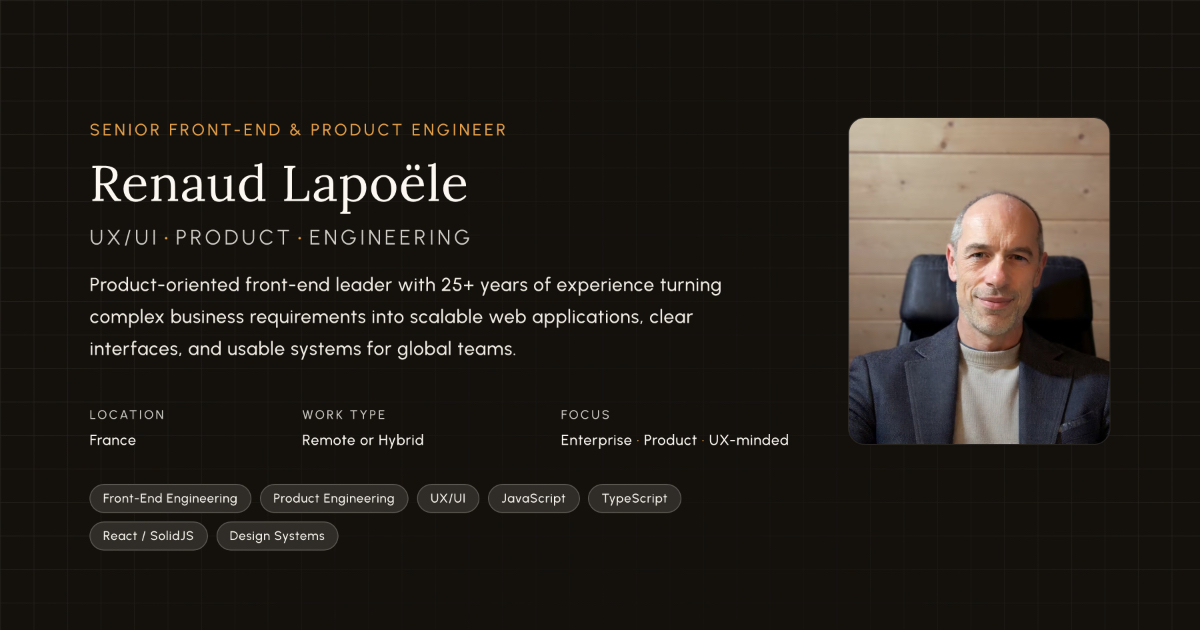
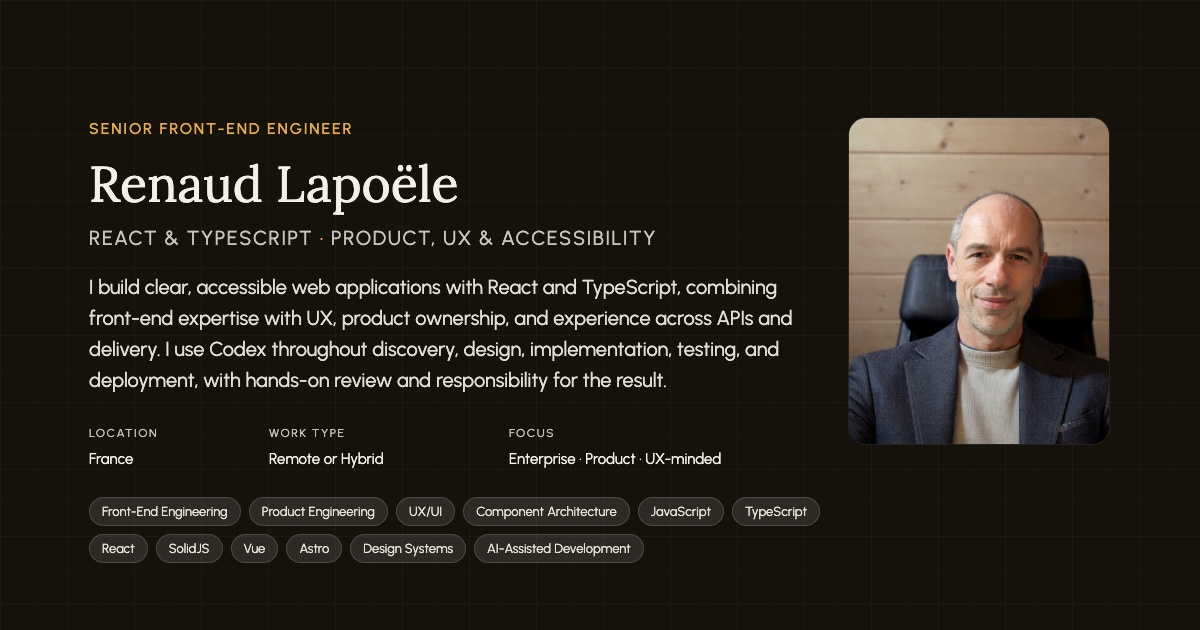
content: udpated og images

diff --git a/agent-logs/changelog.md b/agent-logs/changelog.md
@@ -207,3 +207,9 @@ Concise history of meaningful agent-made changes.
 - Preserved CSS, dates, role count, print-break rules, education, certification, and contact details. Plan: edit content only, inspect both browser renders, then check structure and links.
 - Verified both HTML renders in the browser, project destinations in the markup, unchanged CSS/dates, unique IDs and heading references, and clean whitespace. No application runtime changed, so an Astro build was not needed.
 - PDF generation, print pagination verification, and website PDF-link updates remain with the user. No PDFs generated; no staging, commit, or push performed.
+
+## 2026-11-10 — Open Graph images
+
+- Refreshed both 1200×630 JPEG social-preview images from current localized hero content, including headline, tagline, summary, metadata and focus tags. Retained the established dark grid, amber accent, local Urbanist/Lora fonts, and existing portrait asset.
+- Plan and verification: inspect old graphics, render deterministic HTML compositions using existing project assets, then visually inspect both exports and verify dimensions, font loading, text bounds, and whitespace. Text is read directly from each locale's content module; no content-model change was needed.
+- Kept existing image paths and metadata references. No PDFs, commits, pushes or deployment; renderer intermediates remain outside the repository.
